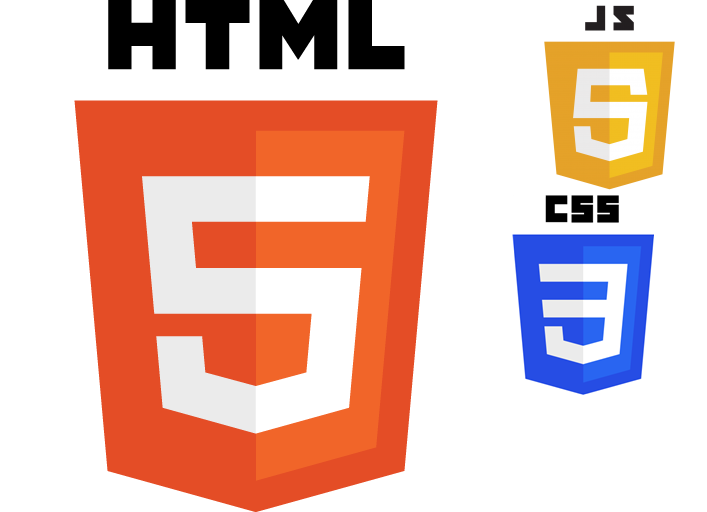
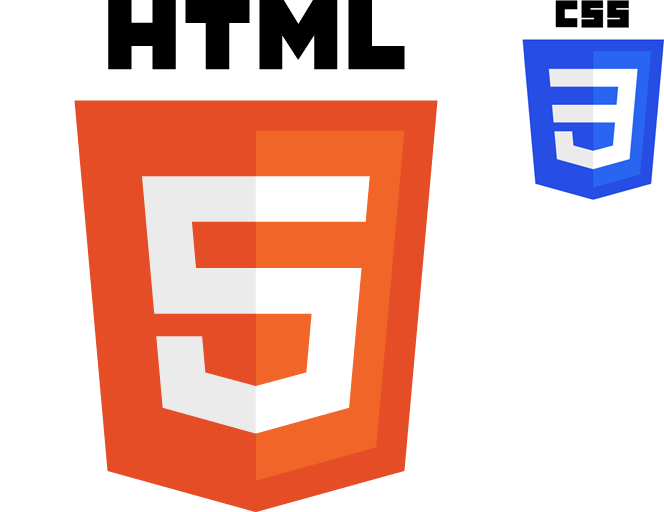
Adds a watch behavior for sprites: NEEDS MORE TESTING

diff --git a/Gruntfile.js b/Gruntfile.js
@@ -70,8 +70,8 @@ module.exports = function (grunt) {
 				}]
 			},
 
-			// THIS TARGET TRANSFERS PURE CSS IN 'DEV' MODE
-			pureCSS_dev: {
+			// THIS TARGET TRANSFERS PURE CSS FILES
+			pureCSS: {
 				files: [{
 					expand: true,
 					flatten: true,
@@ -95,17 +95,31 @@ module.exports = function (grunt) {
 		// SPRITE PROCESS
 		sprite : {
 			all : {
-				src: "<%= dir.source %>/<%= dir.public %>/<%= dir.images %>/sprite/**/*.png",
-				dest:"<%= dir.source %>/<%= dir.public %>/<%= dir.images %>/app.png",
-				destCss:"<%= dir.source %>//<%= dir.public %>/<%= dir.styles %>/config/_sprites.scss",
-				imgPath: "./<%= dir.images %>",
+				src : "<%= dir.source %>/<%= dir.public %>/<%= dir.images %>/sprite/**/*.png",
+				dest :"<%= dir.source %>/<%= dir.public %>/<%= dir.images %>/app.png",
+				destCss :"<%= dir.source %>/<%= dir.public %>/<%= dir.styles %>/config/_sprites.scss",
+				imgPath : "../<%= dir.images %>/app.png",
+				padding : 10, 
 			}
 		},
 
 		// IMAGES MINIFICATION PROCESS
 		imagemin : {
+			options: {
+				optimizationLevel: 3,
+			},
 			all : {
-
+				files : [{
+					expand : true, 
+					cwd : "<%= dir.source %>/<%= dir.public %>/<%= dir.images %>",
+					src : ["**/*.{png,jpeg,jpg,gif}","!sprite/*"],
+					dest : "<%= dir.currTask %>/<%= dir.public %>/<%= dir.images %>",
+				}]
+			},
+			sprite : {
+				files : {
+					"<%= dir.dev %>/<%= dir.public %>/<%= dir.images %>/app.png" : "<%= dir.source %>/<%= dir.public %>/<%= dir.images %>/app.png"
+				}
 			}
 		},
 		
@@ -259,87 +273,94 @@ module.exports = function (grunt) {
 		// WATCH PROCESS
 		watch: {
 			// WATCH - ADITION AND MOFIICATION PROCESS
-			backEnd: {
-			  files		: ["<%= dir.source %>/?(<%= dir.resources %>|<%= dir.tests %>)/**/*"],
-			  tasks		: ["copy:backEnd"],
-			  options	: {event: ["added","changed"]}
-			},
+			// backEnd: {
+			//   files		: ["<%= dir.source %>/?(<%= dir.resources %>|<%= dir.tests %>)/**/*"],
+			//   tasks		: ["copy:backEnd"],
+			//   options	: {event: ["added","changed"]}
+			// },
 
-			public_PHP_HTML: {
-				files	: ["<%= dir.source %>/<%= dir.public %>/*.{php,html}"],
-				tasks	: ["copy:public_PHP_HTML"],
-				options	: { event: ["added", "changed"] }
-			},
+			// public_PHP_HTML: {
+			// 	files	: ["<%= dir.source %>/<%= dir.public %>/*.{php,html}"],
+			// 	tasks	: ["copy:public_PHP_HTML"],
+			// 	options	: { event: ["added", "changed"] }
+			// },
 
-			sass : {
-				files 	: ["<%= dir.source %>/<%= dir.public %>/**/*.scss"],
-				tasks 	: [
-					"sass:dev",
-					"postcss:dev"
-				],
-				options	: {event: ["added","changed"]}
-			},
+			// sass : {
+			// 	files 	: ["<%= dir.source %>/<%= dir.public %>/**/*.scss"],
+			// 	tasks 	: [
+			// 		"sass:dev",
+			// 		"postcss:dev"
+			// 	],
+			// 	options	: {event: ["added","changed"]}
+			// },
 			
-			pureCSS: {
-				files: ["<%= dir.source %>/public/**/*.css"],
-				tasks: [
-					'copy:pureCSS_dev',
-					'postcss:dev'
-			],
-				options: {
-				event: ["added", "changed"]
-				}
+			// pureCSS: {
+			// 	files: ["<%= dir.source %>/public/**/*.css"],
+			// 	tasks: [
+			// 		'copy:pureCSS_dev',
+			// 		'postcss:dev'
+			// ],
+			// 	options: {
+			// 	event: ["added", "changed"]
+			// 	}
+			// },
+
+			// js : {
+			// 	files 	: ["<%= dir.source %>/<%= dir.public %>/**/*.js"],
+			// 	tasks 	: ["newer:uglify:dev"],
+			// 	options	: {
+			// 		event : ['added','changed']
+			// 	}
+			// },
+			"sprite" : {
+				files : ["<%= dir.source %>/<%= dir.public %>/<%= dir.images %>/sprite/*.png"],
+				// options : {"events" : ["all"]},
+				tasks : ["sprite",
+						 "imagemin:sprite",
+						 "sass:dev"]
 			},
 
-			js : {
-				files 	: ["<%= dir.source %>/<%= dir.public %>/**/*.js"],
-				tasks 	: ["newer:uglify:dev"],
-				options	: {
-					event : ['added','changed']
-				}
-			},
 
+			// // WATCH - DELETE PROCESS
+			// deleted_backEnd : {
+			// 	files : ["<%= dir.source %>/?(<%= dir.resources %>|<%= dir.tests %>)/**/*"],
+			// 	tasks : [
+			// 		"clean:backEnd",
+			// 		"copy:backEnd"
+			// 	],
+			// 	options : { event : "deleted"}
+			// },
 
-			// WATCH - DELETE PROCESS
-			deleted_backEnd : {
-				files : ["<%= dir.source %>/?(<%= dir.resources %>|<%= dir.tests %>)/**/*"],
-				tasks : [
-					"clean:backEnd",
-					"copy:backEnd"
-				],
-				options : { event : "deleted"}
-			},
+			// deleted_public_PHP_and_HTML: {
+			// 	files: ["<%= dir.source %>/<%= dir.public %>/*.{html,php}"],
+			// 	tasks: [
+			// 		"clean:public_PHP_HTML",
+			// 		"copy:public_PHP_HTML"
+			// 	],
+			// 	options: {event : ["deleted"]}
+			// },
 
-			deleted_public_PHP_and_HTML: {
-				files: ["<%= dir.source %>/<%= dir.public %>/*.{html,php}"],
-				tasks: [
-					"clean:public_PHP_HTML",
-					"copy:public_PHP_HTML"
-				],
-				options: {event : ["deleted"]}
-			},
+			// deleted_sass_and_css : {
+			// 	files 	: ["<%= dir.source %>/<%= dir.public %>/<%= dir.styles %>/*.{scss,css}"],
+			// 	tasks 	: [
+			// 		"clean:styles",
+			// 		"sass:dev",
+			// 		"copy:pureCSS_dev",
+			// 		"postcss:dev"
+			// 	],
+			// 	options : {event : ["deleted"]}
+			// },
 
-			deleted_sass_and_css : {
-				files 	: ["<%= dir.source %>/<%= dir.public %>/<%= dir.styles %>/*.{scss,css}"],
-				tasks 	: [
-					"clean:styles",
-					"sass:dev",
-					"copy:pureCSS_dev",
-					"postcss:dev"
-				],
-				options : {event : ["deleted"]}
-			},
-
-			deleted_javascript : {
-				files 	: ["<%= dir.source %>/<%= dir.public %>/**/*.js"],
-				tasks 	: [
-					"clean:js",
-					"uglify:dev",
-				],
-				options	: {
-					event : ['deleted']
-				}
-			},
+			// deleted_javascript : {
+			// 	files 	: ["<%= dir.source %>/<%= dir.public %>/**/*.js"],
+			// 	tasks 	: [
+			// 		"clean:js",
+			// 		"uglify:dev",
+			// 	],
+			// 	options	: {
+			// 		event : ['deleted']
+			// 	}
+			// },
 		},
 
 		//CLEAN PROCESS
@@ -377,15 +398,16 @@ module.exports = function (grunt) {
 
 	grunt.registerTask("dev", [
 		"clean:target",
-		"imagemin",
-		"sprite"
-		// "copy:dev",
-		// "copy:pureCSS_dev",
+		"sprite",
 		// "responsive_images",
-		// "sass:dev",
+		"imagemin:all",
+		"copy:pureCSS",
+		"sass:dev",
+		"copy:public_PHP_HTML",
+		// "copy:dev",
 		// "postcss:dev",
 		// "uglify:dev",
-		// "watch"
+		"watch"
 	]);
 
 

diff --git a/src/public/styles/config/_sprites.scss b/src/public/styles/config/_sprites.scss
@@ -10,16 +10,16 @@
 // At the bottom of this section, we provide information about the spritesheet itself
 // $spritesheet: width height image $spritesheet-sprites;
 $css3-logo-name: 'css3_logo';
-$css3-logo-x: 512px;
-$css3-logo-y: 195px;
-$css3-logo-offset-x: -512px;
-$css3-logo-offset-y: -195px;
+$css3-logo-x: 522px;
+$css3-logo-y: 0px;
+$css3-logo-offset-x: -522px;
+$css3-logo-offset-y: 0px;
 $css3-logo-width: 142px;
 $css3-logo-height: 200px;
-$css3-logo-total-width: 707px;
+$css3-logo-total-width: 664px;
 $css3-logo-total-height: 512px;
-$css3-logo-image: './img';
-$css3-logo: (512px, 195px, -512px, -195px, 142px, 200px, 707px, 512px, './img', 'css3_logo', );
+$css3-logo-image: '../img/app.png';
+$css3-logo: (522px, 0px, -522px, 0px, 142px, 200px, 664px, 512px, '../img/app.png', 'css3_logo', );
 $html5-logo-name: 'html5_logo';
 $html5-logo-x: 0px;
 $html5-logo-y: 0px;
@@ -27,26 +27,15 @@ $html5-logo-offset-x: 0px;
 $html5-logo-offset-y: 0px;
 $html5-logo-width: 512px;
 $html5-logo-height: 512px;
-$html5-logo-total-width: 707px;
+$html5-logo-total-width: 664px;
 $html5-logo-total-height: 512px;
-$html5-logo-image: './img';
-$html5-logo: (0px, 0px, 0px, 0px, 512px, 512px, 707px, 512px, './img', 'html5_logo', );
-$js-logo-name: 'js_logo';
-$js-logo-x: 512px;
-$js-logo-y: 0px;
-$js-logo-offset-x: -512px;
-$js-logo-offset-y: 0px;
-$js-logo-width: 195px;
-$js-logo-height: 195px;
-$js-logo-total-width: 707px;
-$js-logo-total-height: 512px;
-$js-logo-image: './img';
-$js-logo: (512px, 0px, -512px, 0px, 195px, 195px, 707px, 512px, './img', 'js_logo', );
-$spritesheet-width: 707px;
+$html5-logo-image: '../img/app.png';
+$html5-logo: (0px, 0px, 0px, 0px, 512px, 512px, 664px, 512px, '../img/app.png', 'html5_logo', );
+$spritesheet-width: 664px;
 $spritesheet-height: 512px;
-$spritesheet-image: './img';
-$spritesheet-sprites: ($css3-logo, $html5-logo, $js-logo, );
-$spritesheet: (707px, 512px, './img', $spritesheet-sprites, );
+$spritesheet-image: '../img/app.png';
+$spritesheet-sprites: ($css3-logo, $html5-logo, );
+$spritesheet: (664px, 512px, '../img/app.png', $spritesheet-sprites, );
 
 // The provided mixins are intended to be used with the array-like variables
 //

diff --git a/src/public/styles/styles1.scss b/src/public/styles/styles1.scss
@@ -3,6 +3,24 @@
 span { content: "stylees1"};
 
 div {
-    justify-content: "center";
-    color: green;
+    // justify-content: "center";
+    // color: green;
+    display: block;
+    &:after {
+        content: "";
+        display: inline-block;
+    }
+}
+
+
+.css {
+    @include sprite($css3_logo);
+}
+.js {
+    
+    // @include sprite($js_logo);
+}
+.html {
+    @include sprite($html5_logo);
+
 }

diff --git a/src/public/sprite-test.php b/src/public/sprite-test.php
@@ -1,0 +1,9 @@
+<head>
+    <link rel="stylesheet" href="./styles/styles1.css">
+</head>
+
+
+<div class="css"></div>
+<div class="js"></div>
+<div class="html"></div>
+
